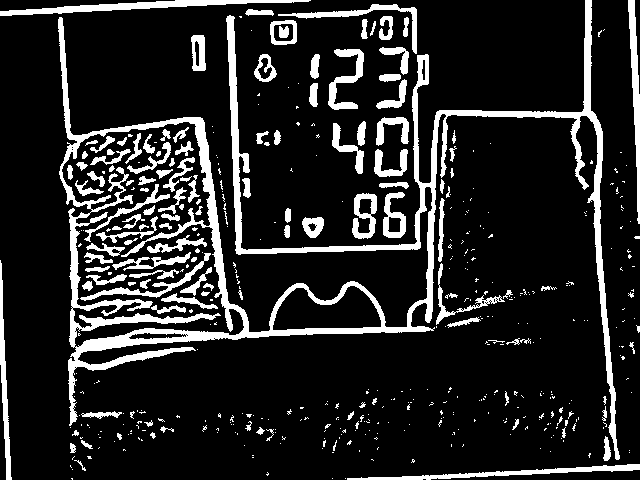
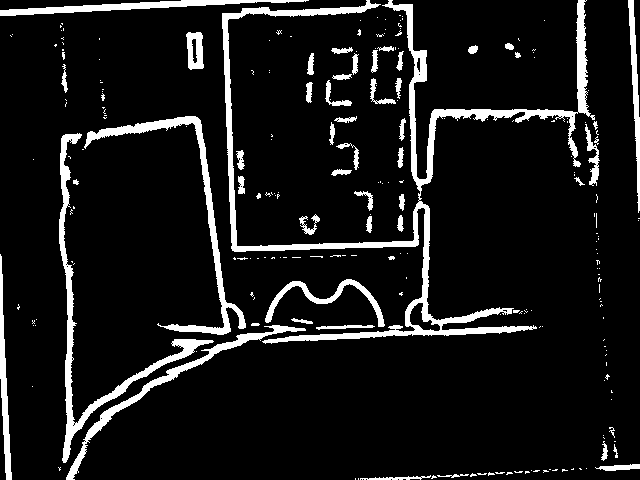
FOI

diff --git a/firmware/max30102-test2/src/main.cpp b/firmware/max30102-test2/src/main.cpp
@@ -9,6 +9,7 @@
 #define SERVO2_PIN 12
 #define RELE_PIN 14
 
+#define DEBUGMODE 1
 // Definição dos estados
 enum State {
     IDLE,
@@ -89,8 +90,14 @@ unsigned long releStartTime = 0;
 unsigned long lastBeat = 0;
 unsigned long lastPrintTime = 0;
 int sampleCount = 0;
+uint8_t try_count = 0;
 
 void setup(void) {
+
+    #if DEBUGMODE
+        Serial.println("Iniciando sistema...");
+    #endif
+
     Serial.begin(115200);
     
     // Inicializa I2C com os pinos customizados para o ESP32
@@ -99,14 +106,14 @@ void setup(void) {
     // Inicializa sensor MAX30102
     if (!sensor.begin()) {
         Serial.println("ERRO: Sensor MAX30102 não encontrado!");
-        while (1);
+        //while (1);
     }
     sensor.setup();
 
     // Inicializa MLX90614
     if (!mlx.begin()) {
         Serial.println("Erro: MLX90614 não encontrado!");
-        while (1);
+        //while (1);
     }
 
     // Inicializa Servos
@@ -116,12 +123,16 @@ void setup(void) {
     servo2.setPeriodHertz(50);
     servo1.attach(SERVO1_PIN);
     servo2.attach(SERVO2_PIN);
-    servo1.write(0);
+    servo1.write(130);
     servo2.write(0);
 
     // Inicializa Relé
     pinMode(RELE_PIN, OUTPUT);
     digitalWrite(RELE_PIN, LOW);
+
+    #if DEBUGMODE
+        Serial.println("Sistema Inicializado...");
+    #endif
 }
 
 float getMedian(std::vector<float>& samples) {
@@ -166,13 +177,16 @@ void processSerialCommands() {
 void loop() {
     processSerialCommands();
     unsigned long currentTime = millis();
-
-    switch (currentState) {
+    sensor.check();
+    switch (currentState) 
+    {
         case IDLE:
             // Nada a fazer, aguardando comandos
-            if (currentTime - lastPrintTime > 1000) {
+            if (currentTime - lastPrintTime > 5000) {
                 lastPrintTime = currentTime;
-                Serial.println("Waiting for commands...");
+                # if DEBUGMODE
+                    Serial.println("Waiting for commands...");
+                # endif
             }
             break;
 
@@ -192,70 +206,136 @@ void loop() {
             break;
 
         case SERVO1_FORWARD:
-            servo1.write(90);
+            servo1.write(40);
             delay(500); // Aguarda o servo se posicionar
             currentState = MEASURE_OXI;
+            //currentState = SERVO1_BACKWARD;
             oxiSamples.clear();
             sampleCount = 0;
             lastSampleTime = currentTime;
             break;
 
         case MEASURE_OXI:
-            if (currentTime - lastSampleTime >= 100) {
-                sensor.check();
-                
-                if (sensor.available()) {
+            sensor.check();
+            if (currentTime - lastSampleTime >= 100) 
+            {
+                if (sensor.available()) 
+                {
                     uint32_t irValue = sensor.getIR();
-                    uint32_t redValue = sensor.getRed();
+                    uint32_t redValue = sensor.getRed(); // Ler ambos os valores para os filtros
                     sensor.nextSample();
 
-                    // Processamento do SpO2
-                    int16_t IR_signal = pulseIR.ma_filter(pulseIR.dc_filter(irValue));
-                    int16_t Red_signal = pulseRed.ma_filter(pulseRed.dc_filter(redValue));
+                    // Lógica de detecção com histerese para evitar oscilação
+                    if (irValue < FINGER_OFF_THRESHOLD && fingerOnSensor) {
+                        fingerOnSensor = false;
+                        beatAvg = 0;
+                        SPO2 = 0;
+                        #if DEBUGMODE
+                            Serial.println("\nDedo removido. Aguardando...");
+                        #endif
+                    } else if (irValue > FINGER_ON_THRESHOLD && !fingerOnSensor) {
+                        fingerOnSensor = true;
+                        lastBeat = millis(); // Reseta o timer da batida quando o dedo é detectado
+                        #if DEBUGMODE
+                            Serial.println("Dedo detectado. Realizando medição...");
+                        #endif
+                    }
                     
-                    if (pulseIR.isBeat(IR_signal)) {
-                        pulseRed.isBeat(Red_signal);
-                        
-                        long beatInterval = currentTime - lastBeat;
-                        if (beatInterval > 600) {
-                            lastBeat = currentTime;
-                            
-                            long numerator = (pulseRed.avgAC() * pulseIR.avgDC()) / 256;
-                            long denominator = (pulseRed.avgDC() * pulseIR.avgAC()) / 256;
-                            int RX100 = (denominator > 0) ? (numerator * 100) / denominator : 999;
+                    if (fingerOnSensor) 
+                    {
+                        // Processamento do sinal para encontrar o batimento
+                        int16_t IR_signal = pulseIR.ma_filter(pulseIR.dc_filter(irValue));
+                        bool beatIR = pulseIR.isBeat(IR_signal);
 
-                            if (RX100 >= 0 && RX100 < 184) {
-                                oxiSamples.push_back(spo2_table[RX100]);
-                                sampleCount++;
+                        // *** CORREÇÃO PARA SpO2 ***
+                        // Processa o sinal vermelho da mesma forma, chamando isBeat() para forçar
+                        // o cálculo interno do valor AC (avgAC) na biblioteca.
+                        int16_t Red_signal = pulseRed.ma_filter(pulseRed.dc_filter(redValue));
+                        pulseRed.isBeat(Red_signal); // A chamada é necessária, mesmo sem usar o resultado.
+
+                        if (beatIR) 
+                        {
+                            long beatInterval = currentTime - lastBeat;
+                            
+                            if (beatInterval > 600) 
+                            { 
+                                lastBeat = currentTime;
+                                
+                                long btpm = 60000 / beatInterval;
+                                if (btpm > 40 && btpm < 200) {
+                                    beatAvg = bpm.filter((int16_t)btpm);
+                                }
+                                
+                                // Calcula o SpO2 somente quando temos um batimento válido
+                                long numerator = (pulseRed.avgAC() * pulseIR.avgDC()) / 256;
+                                long denominator = (pulseRed.avgDC() * pulseIR.avgAC()) / 256;
+                                int RX100 = (denominator > 0) ? (numerator * 100) / denominator : 999;
+
+                                if ((RX100 >= 0) && (RX100 < 184)) 
+                                {
+                                    SPO2 = spo2_table[RX100];
+                                    oxiSamples.push_back(SPO2);
+                                    sampleCount++;
+                                }
                             }
                         }
+
+                        // Imprime os valores no Monitor Serial a cada 1 segundo para não poluir o terminal
+                        lastPrintTime = currentTime;
+                        #if DEBUGMODE
+                            if (beatAvg > 0 && SPO2 > 0) 
+                            {
+                                Serial.print("BPM: ");
+                                Serial.print(beatAvg);
+                                Serial.print(" | SpO2: ");
+                                Serial.print(SPO2);
+                                Serial.println("%");
+                            }
+            
+                            if (sampleCount >= 5) 
+                            {
+                                int medianSPO2 = getMedianInt(oxiSamples);
+                                Serial.printf("O:OK:%d\n", medianSPO2);
+                                currentState = SERVO1_BACKWARD;
+                            }
+            
+                            if (currentTime - lastPrintTime > 1000) 
+                            {
+                                lastPrintTime = currentTime;
+                                #if DEBUGMODE
+                                    Serial.print("Measuring SpO2... Samples: ");
+                                    Serial.println(sampleCount);
+                                #endif
+                            }
+                        #endif
+                        lastSampleTime = currentTime;
                     }
+            
                 }
-
-                if (sampleCount >= 5) {
-                    int medianSPO2 = getMedianInt(oxiSamples);
-                    Serial.printf("O:OK:%d\n", medianSPO2);
-                    currentState = SERVO1_BACKWARD;
+                else
+                {
+                    sensor.check();
+                    #if DEBUGMODE
+                        if(try_count > 5)
+                        {   
+                            try_count = 0;
+                            Serial.println("WAIT....");
+                        }
+                        else
+                            try_count++;
+                    #endif
                 }
-
-                if (currentTime - lastPrintTime > 1000) {
-                    lastPrintTime = currentTime;
-                    Serial.print("Measuring SpO2... Samples: ");
-                    Serial.println(sampleCount);
-                }
-
-                lastSampleTime = currentTime;
             }
             break;
 
         case SERVO1_BACKWARD:
-            servo1.write(0);
+            servo1.write(130);
             delay(500);
             currentState = IDLE;
             break;
 
         case SERVO2_FORWARD:
-            servo2.write(90);
+            servo2.write(170);
             delay(500);
             Serial.println("P1:OK");
             currentState = IDLE;
@@ -269,99 +349,13 @@ void loop() {
             break;
 
         case RELE_CONTROL:
-            if (currentTime - releStartTime >= 100) {
+            if (currentTime - releStartTime >= 400) 
+            {
                 digitalWrite(RELE_PIN, LOW);
                 Serial.println("P:OK");
                 currentState = IDLE;
             }
             break;
     }
-
-  uint32_t irValue = sensor.getIR();
-  uint32_t redValue = sensor.getRed(); // Ler ambos os valores para os filtros
-  sensor.nextSample();
-
-  // Lógica de detecção com histerese para evitar oscilação
-  if (irValue < FINGER_OFF_THRESHOLD && fingerOnSensor) {
-    fingerOnSensor = false;
-    beatAvg = 0;
-    SPO2 = 0;
-    Serial.println("\nDedo removido. Aguardando...");
-  } else if (irValue > FINGER_ON_THRESHOLD && !fingerOnSensor) {
-    fingerOnSensor = true;
-    lastBeat = millis(); // Reseta o timer da batida quando o dedo é detectado
-    Serial.println("Dedo detectado. Realizando medição...");
-  }
-  /*
-  // Se o dedo estiver no sensor, processa os dados
-  if (fingerOnSensor) {
-    // Processamento do sinal para encontrar o batimento
-    int16_t IR_signal = pulseIR.ma_filter(pulseIR.dc_filter(irValue));
-    bool beatIR = pulseIR.isBeat(IR_signal);
-
-    // *** CORREÇÃO PARA SpO2 ***
-    // Processa o sinal vermelho da mesma forma, chamando isBeat() para forçar
-    // o cálculo interno do valor AC (avgAC) na biblioteca.
-    int16_t Red_signal = pulseRed.ma_filter(pulseRed.dc_filter(redValue));
-    pulseRed.isBeat(Red_signal); // A chamada é necessária, mesmo sem usar o resultado.
-
-    if (beatIR) {
-      long beatInterval = currentTime - lastBeat;
-      
-      if (beatInterval > 600) { 
-          lastBeat = currentTime;
-          
-          long btpm = 60000 / beatInterval;
-          if (btpm > 40 && btpm < 200) {
-            beatAvg = bpm.filter((int16_t)btpm);
-          }
-          
-          // Calcula o SpO2 somente quando temos um batimento válido
-          long numerator = (pulseRed.avgAC() * pulseIR.avgDC()) / 256;
-          long denominator = (pulseRed.avgDC() * pulseIR.avgAC()) / 256;
-          int RX100 = (denominator > 0) ? (numerator * 100) / denominator : 999;
-
-          if ((RX100 >= 0) && (RX100 < 184)) {
-            SPO2 = spo2_table[RX100];
-          }
-      }
-    }
-
-    // Imprime os valores no Monitor Serial a cada 1 segundo para não poluir o terminal
-    if (currentTime - lastPrintTime > 1000) {
-      lastPrintTime = currentTime;
-      if (beatAvg > 0 && SPO2 > 0) {
-        Serial.print("BPM: ");
-        Serial.print(beatAvg);
-        Serial.print(" | SpO2: ");
-        Serial.print(SPO2);
-        Serial.println("%");
-        
-        //--- Linhas de Debug (Comentadas) ---
-        //Serial.print(" | Ratio: ");
-        //Serial.print(lastRatio);
-        //Serial.print(" | Red_AC: ");
-        //Serial.print(lastRedAC);
-        //Serial.print(" | IR_AC: ");
-        //Serial.println(lastIrAC);
-        
-
-      } else {
-        Serial.println("Calculando..."); // Feedback para o usuário
-      }
-    }
-  } else {
-    Serial.print("Ambient temperature = "); 
-    Serial.print(mlx.readAmbientTempC());
-    Serial.print("°C");      
-    Serial.print("   ");
-    Serial.print("Object temperature = "); 
-    Serial.print(mlx.readObjectTempC()); 
-    Serial.println("°C");
-
-    Serial.println("-----------------------------------------------------------------");
-    // Quando não há dedo, apenas aguarda. A lógica de sleep foi removida.
-    delay(100);
-  }*/
 }
 

diff --git a/measure_recognition/seteseg.py b/measure_recognition/seteseg.py
@@ -1,6 +1,6 @@
 import cv2
 
-img = cv2.imread("2025-11-01-130816.jpg")
+img = cv2.imread("2025-11-04-230628.jpg")
 height, width = img.shape[:2]
 center = (width/2, height/2)
 
@@ -86,7 +86,7 @@ for label, coords in digitos_coord.items():
     numero = ""
     for (x, y, w, h) in coords:
         dig_img = img[y:y+h, x:x+w]
-        numero += ler_digito(dig_img, img, x, y)
+        numero += ler_digito(dig_img, img_color, x, y)
         cv2.rectangle(img, (x, y), (x+w, y+h), (255, 255, 0), 1)  # amarelo = caixa do dígito
     valores[label] = numero
 
@@ -94,7 +94,7 @@ print("\nLeitura automática:")
 for k, v in valores.items():
     print(f"{k.capitalize()}: {v}")
 
-cv2.imwrite("debug_segmentos.png", img)
+cv2.imwrite("debug_segmentos.png", img_color)
 print("\nImagem de depuração salva: 'debug_segmentos.png'")
 
 
